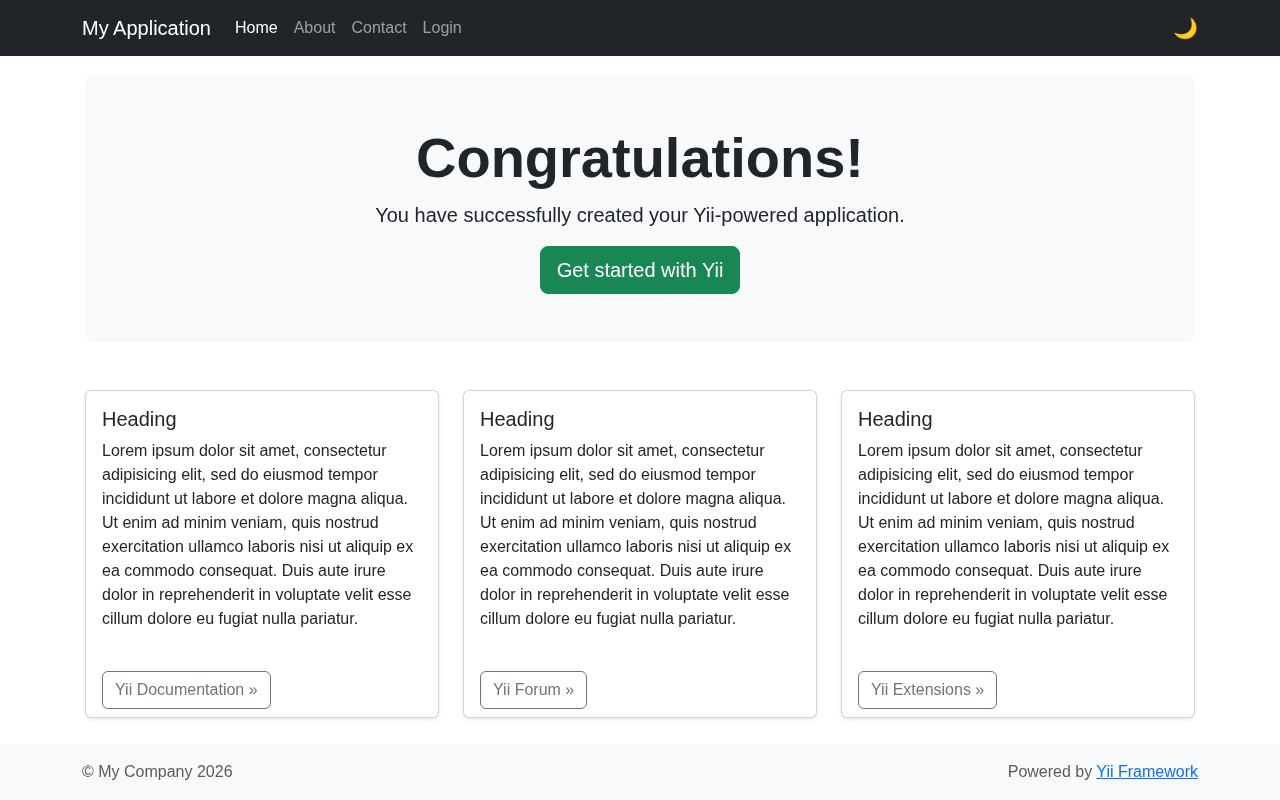
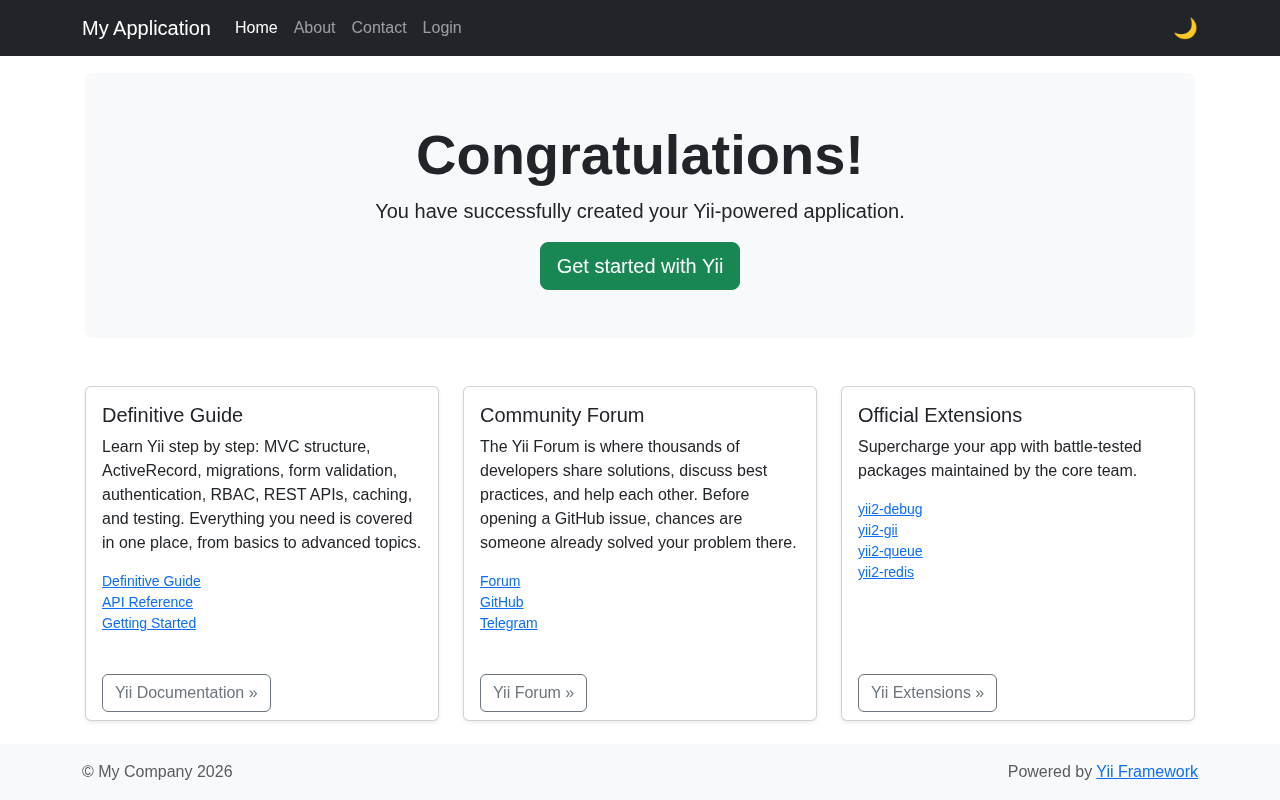
Apply fixed review.

diff --git a/views/site/index.php b/views/site/index.php
@@ -24,12 +24,15 @@ $this->title = 'My Yii Application';
             <div class="col-lg-4">
                 <div class="card h-100 shadow-sm">
                     <div class="card-body">
-                        <h2 class="h5">Heading</h2>
+                        <h2 class="h5"><?= Yii::t('app', 'Definitive Guide') ?></h2>
 
-                        <p>Lorem ipsum dolor sit amet, consectetur adipisicing elit, sed do eiusmod tempor incididunt ut labore et
-                            dolore magna aliqua. Ut enim ad minim veniam, quis nostrud exercitation ullamco laboris nisi ut aliquip
-                            ex ea commodo consequat. Duis aute irure dolor in reprehenderit in voluptate velit esse cillum dolore eu
-                            fugiat nulla pariatur.</p>
+                        <p><?= Yii::t('app', 'Learn Yii step by step: MVC structure, ActiveRecord, migrations, form validation, authentication, RBAC, REST APIs, caching, and testing. Everything you need is covered in one place, from basics to advanced topics.') ?></p>
+
+                        <ul class="list-unstyled small">
+                            <li><?= Html::a(Yii::t('app', 'Definitive Guide'), 'https://www.yiiframework.com/doc/guide/2.0/en', ['target' => '_blank', 'rel' => 'noopener']) ?></li>
+                            <li><?= Html::a(Yii::t('app', 'API Reference'), 'https://www.yiiframework.com/doc/api/2.0', ['target' => '_blank', 'rel' => 'noopener']) ?></li>
+                            <li><?= Html::a(Yii::t('app', 'Getting Started'), 'https://www.yiiframework.com/doc/guide/2.0/en/start-installation', ['target' => '_blank', 'rel' => 'noopener']) ?></li>
+                        </ul>
                     </div>
                     <div class="card-footer bg-transparent border-0">
                         <?= Html::a('Yii Documentation &raquo;', 'https://www.yiiframework.com/doc/', ['class' => 'btn btn-outline-secondary']) ?>
@@ -39,12 +42,15 @@ $this->title = 'My Yii Application';
             <div class="col-lg-4">
                 <div class="card h-100 shadow-sm">
                     <div class="card-body">
-                        <h2 class="h5">Heading</h2>
+                        <h2 class="h5"><?= Yii::t('app', 'Community Forum') ?></h2>
 
-                        <p>Lorem ipsum dolor sit amet, consectetur adipisicing elit, sed do eiusmod tempor incididunt ut labore et
-                            dolore magna aliqua. Ut enim ad minim veniam, quis nostrud exercitation ullamco laboris nisi ut aliquip
-                            ex ea commodo consequat. Duis aute irure dolor in reprehenderit in voluptate velit esse cillum dolore eu
-                            fugiat nulla pariatur.</p>
+                        <p><?= Yii::t('app', 'The Yii Forum is where thousands of developers share solutions, discuss best practices, and help each other. Before opening a GitHub issue, chances are someone already solved your problem there.') ?></p>
+
+                        <ul class="list-unstyled small">
+                            <li><?= Html::a(Yii::t('app', 'Forum'), 'https://forum.yiiframework.com/', ['target' => '_blank', 'rel' => 'noopener']) ?></li>
+                            <li><?= Html::a(Yii::t('app', 'GitHub'), 'https://github.com/yiisoft/yii2', ['target' => '_blank', 'rel' => 'noopener']) ?></li>
+                            <li><?= Html::a(Yii::t('app', 'Telegram'), 'https://t.me/yii_framework_in_english', ['target' => '_blank', 'rel' => 'noopener']) ?></li>
+                        </ul>
                     </div>
                     <div class="card-footer bg-transparent border-0">
                         <?= Html::a('Yii Forum &raquo;', 'https://www.yiiframework.com/forum/', ['class' => 'btn btn-outline-secondary']) ?>
@@ -54,12 +60,16 @@ $this->title = 'My Yii Application';
             <div class="col-lg-4">
                 <div class="card h-100 shadow-sm">
                     <div class="card-body">
-                        <h2 class="h5">Heading</h2>
+                        <h2 class="h5"><?= Yii::t('app', 'Official Extensions') ?></h2>
 
-                        <p>Lorem ipsum dolor sit amet, consectetur adipisicing elit, sed do eiusmod tempor incididunt ut labore et
-                            dolore magna aliqua. Ut enim ad minim veniam, quis nostrud exercitation ullamco laboris nisi ut aliquip
-                            ex ea commodo consequat. Duis aute irure dolor in reprehenderit in voluptate velit esse cillum dolore eu
-                            fugiat nulla pariatur.</p>
+                        <p><?= Yii::t('app', 'Supercharge your app with battle-tested packages maintained by the core team.') ?></p>
+
+                        <ul class="list-unstyled small">
+                            <li><?= Html::a('yii2-debug', 'https://www.yiiframework.com/extension/yiisoft/yii2-debug', ['target' => '_blank', 'rel' => 'noopener']) ?></li>
+                            <li><?= Html::a('yii2-gii', 'https://www.yiiframework.com/extension/yiisoft/yii2-gii', ['target' => '_blank', 'rel' => 'noopener']) ?></li>
+                            <li><?= Html::a('yii2-queue', 'https://www.yiiframework.com/extension/yiisoft/yii2-queue', ['target' => '_blank', 'rel' => 'noopener']) ?></li>
+                            <li><?= Html::a('yii2-redis', 'https://www.yiiframework.com/extension/yiisoft/yii2-redis', ['target' => '_blank', 'rel' => 'noopener']) ?></li>
+                        </ul>
                     </div>
                     <div class="card-footer bg-transparent border-0">
                         <?= Html::a('Yii Extensions &raquo;', 'https://www.yiiframework.com/extensions/', ['class' => 'btn btn-outline-secondary']) ?>
